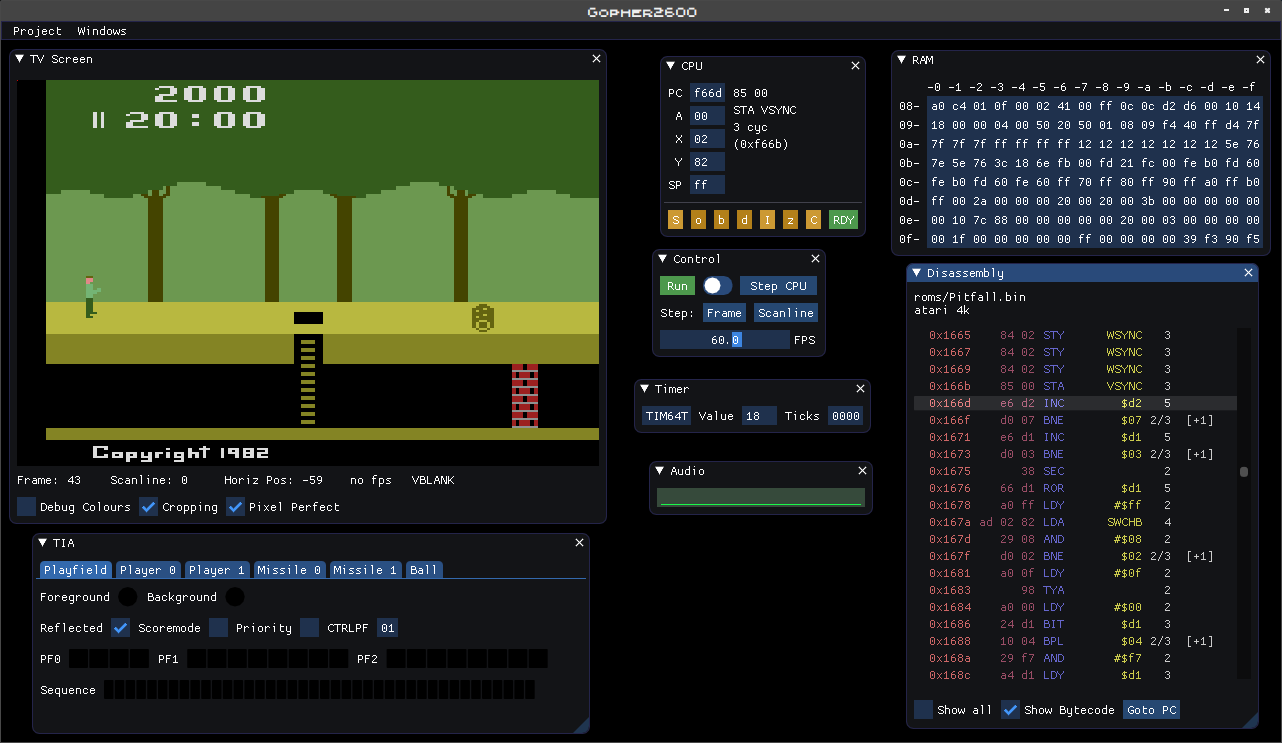
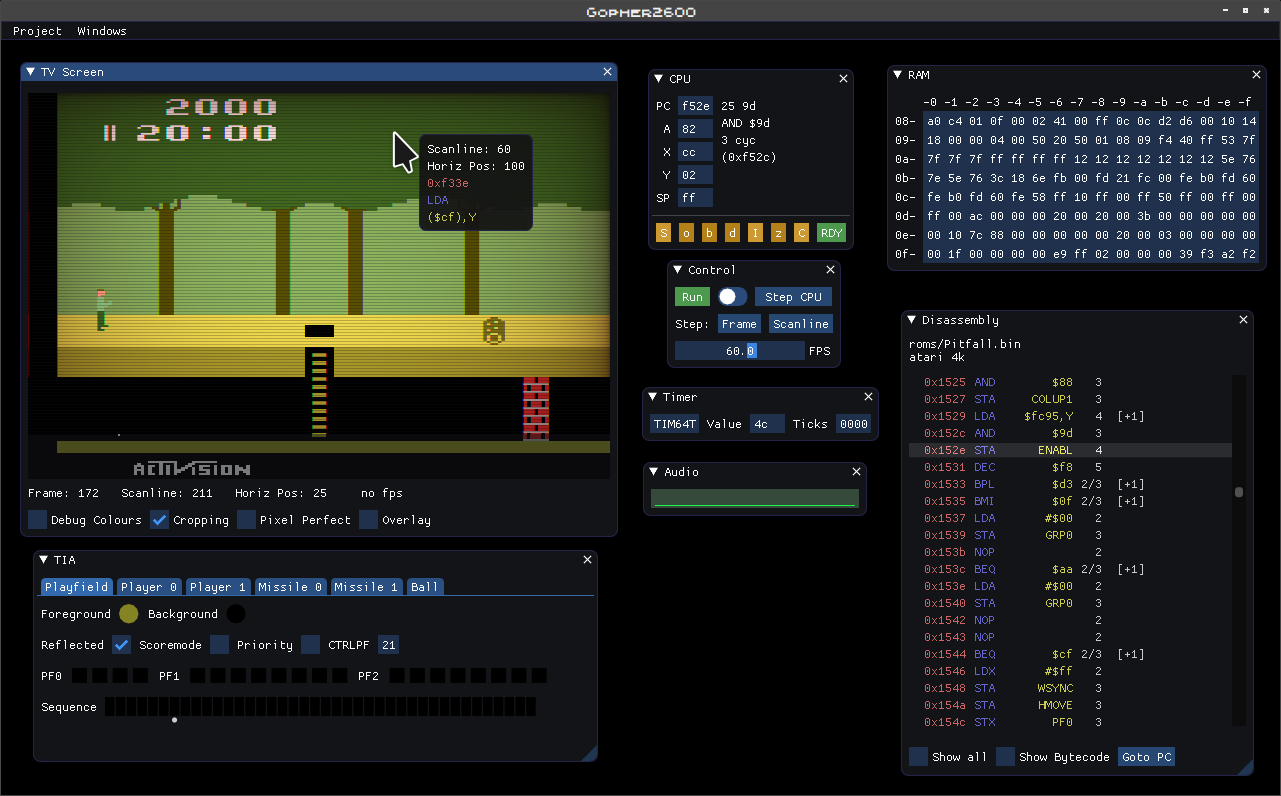
tooltip over screen showing screen "coords" and CPU state
started refactor of reflection package. added Broker interface
- similar in purpose to the Broker interface in the terminal package

diff --git a/gui/sdlimgui/screen.go b/gui/sdlimgui/screen.go
@@ -81,9 +81,12 @@ type screenCrit struct {
 
 	// pixels and altPixels should be constructed exactly the same. the only
 	// difference is the colors
-	pixels    *image.RGBA
-	altPixels *image.RGBA
-	refPixels *image.RGBA
+	pixels        *image.RGBA
+	altPixels     *image.RGBA
+	overlayPixels *image.RGBA
+
+	// 2d array of disasm entries. resized at the same time as overlayPixels resize
+	reflection [][]reflection.ResultWithBank
 
 	// the cropped view of the screen pixels. note that these instances are
 	// created through the SubImage() command and should not be written to
@@ -138,7 +141,13 @@ func (scr *screen) resize(topScanline int, visibleScanlines int) error {
 
 	scr.crit.pixels = image.NewRGBA(image.Rect(0, 0, television.HorizClksScanline, scr.img.tv.GetSpec().ScanlinesTotal))
 	scr.crit.altPixels = image.NewRGBA(image.Rect(0, 0, television.HorizClksScanline, scr.img.tv.GetSpec().ScanlinesTotal))
-	scr.crit.refPixels = image.NewRGBA(image.Rect(0, 0, television.HorizClksScanline, scr.img.tv.GetSpec().ScanlinesTotal))
+	scr.crit.overlayPixels = image.NewRGBA(image.Rect(0, 0, television.HorizClksScanline, scr.img.tv.GetSpec().ScanlinesTotal))
+
+	// allocate disasm info
+	scr.crit.reflection = make([][]reflection.ResultWithBank, television.HorizClksScanline)
+	for x := 0; x < television.HorizClksScanline; x++ {
+		scr.crit.reflection[x] = make([]reflection.ResultWithBank, scr.img.tv.GetSpec().ScanlinesTotal)
+	}
 
 	// create a cropped image from the main
 	r := image.Rectangle{
@@ -151,7 +160,7 @@ func (scr *screen) resize(topScanline int, visibleScanlines int) error {
 	}
 	scr.crit.cropPixels = scr.crit.pixels.SubImage(r).(*image.RGBA)
 	scr.crit.cropAltPixels = scr.crit.altPixels.SubImage(r).(*image.RGBA)
-	scr.crit.cropRefPixels = scr.crit.refPixels.SubImage(r).(*image.RGBA)
+	scr.crit.cropRefPixels = scr.crit.overlayPixels.SubImage(r).(*image.RGBA)
 
 	// clear pixels. SetPixel() alters the value of lastX and lastY. we don't
 	// really want it to do that however, so we note these value and restore
@@ -215,7 +224,7 @@ func (scr *screen) render() {
 	defer scr.crit.section.RUnlock()
 
 	var pixels *image.RGBA
-	var refPixels *image.RGBA
+	var overlayPixels *image.RGBA
 
 	if scr.cropped {
 		if scr.useAltPixels {
@@ -223,14 +232,14 @@ func (scr *screen) render() {
 		} else {
 			pixels = scr.crit.cropPixels
 		}
-		refPixels = scr.crit.cropRefPixels
+		overlayPixels = scr.crit.cropRefPixels
 	} else {
 		if scr.useAltPixels {
 			pixels = scr.crit.altPixels
 		} else {
 			pixels = scr.crit.pixels
 		}
-		refPixels = scr.crit.refPixels
+		overlayPixels = scr.crit.overlayPixels
 	}
 
 	gl.PixelStorei(gl.UNPACK_ROW_LENGTH, int32(pixels.Stride)/4)
@@ -249,7 +258,7 @@ func (scr *screen) render() {
 		gl.TexImage2D(gl.TEXTURE_2D, 0,
 			gl.RGBA, int32(pixels.Bounds().Size().X), int32(pixels.Bounds().Size().Y), 0,
 			gl.RGBA, gl.UNSIGNED_BYTE,
-			gl.Ptr(refPixels.Pix))
+			gl.Ptr(overlayPixels.Pix))
 
 		scr.createTextures = false
 
@@ -267,7 +276,7 @@ func (scr *screen) render() {
 			gl.TexSubImage2D(gl.TEXTURE_2D, 0,
 				0, 0, int32(pixels.Bounds().Size().X), int32(pixels.Bounds().Size().Y),
 				gl.RGBA, gl.UNSIGNED_BYTE,
-				gl.Ptr(refPixels.Pix))
+				gl.Ptr(overlayPixels.Pix))
 		}
 	}
 }
@@ -342,13 +351,29 @@ func (scr *screen) EndRendering() error {
 	return nil
 }
 
-// SetReflectPixel implements reflection.Renderer interface
-func (scr *screen) SetReflectPixel(ref reflection.ReflectPixel) error {
+// NeweflectPixel implements reflection.Renderer interface
+func (scr *screen) NewReflectPixel(result reflection.ResultWithBank) error {
+	scr.crit.section.Lock()
+	defer scr.crit.section.Unlock()
+
+	// clear pixel
+	scr.crit.overlayPixels.SetRGBA(scr.crit.lastX, scr.crit.lastY, color.RGBA{0, 0, 0, 0})
+
+	// store ResultWithBank instance
+	if scr.crit.lastX < len(scr.crit.reflection) && scr.crit.lastY < len(scr.crit.reflection[scr.crit.lastX]) {
+		scr.crit.reflection[scr.crit.lastX][scr.crit.lastY] = result
+	}
+
+	return nil
+}
+
+// UpdateReflectPixel implements reflection.Renderer interface
+func (scr *screen) UpdateReflectPixel(ref reflection.ReflectPixel) error {
 	scr.crit.section.Lock()
 	defer scr.crit.section.Unlock()
 
 	rgb := color.RGBA{uint8(ref.Red), uint8(ref.Green), uint8(ref.Blue), uint8(ref.Alpha)}
-	scr.crit.refPixels.SetRGBA(scr.crit.lastX, scr.crit.lastY, rgb)
+	scr.crit.overlayPixels.SetRGBA(scr.crit.lastX, scr.crit.lastY, rgb)
 
 	return nil
 }

diff --git a/gui/sdlimgui/win_screen.go b/gui/sdlimgui/win_screen.go
@@ -24,6 +24,8 @@ import (
 	"strings"
 
 	"github.com/inkyblackness/imgui-go/v2"
+	"github.com/jetsetilly/gopher2600/disassembly"
+	"github.com/jetsetilly/gopher2600/television"
 )
 
 const winScreenTitle = "TV Screen"
@@ -105,16 +107,72 @@ func (win *winScreen) draw() {
 		imgui.Image(imgui.TextureID(win.scr.overlayTexture), imgui.Vec2{w, h})
 	}
 
-	// is cursor over the screen
 	win.isHovered = imgui.IsItemHovered()
+
+	// if mouse is hovering over the image ...
+	if win.isHovered {
+		win.scr.crit.section.RLock()
+
+		// get mouse position and transform it so it relates to the underlying
+		// image
+		mp := imgui.MousePos().Minus(imagePos)
+		mx := mp.X / win.scr.scaledCroppedWidth()
+		my := mp.Y / win.scr.scaledCroppedHeight()
+
+		imageSz := win.scr.crit.cropPixels.Bounds().Size()
+
+		if win.scr.cropped {
+			mx *= float32(imageSz.X)
+			mx += float32(television.HorizClksHBlank)
+			my *= float32(imageSz.Y)
+			my += float32(win.scr.crit.topScanline)
+		} else {
+			mx *= float32(imageSz.X)
+			my *= float32(imageSz.Y)
+		}
+
+		// get reflection information
+		res := win.scr.crit.reflection[int(mx)][int(my)]
+
+		// present tooltip showing pixel coords and CPU state
+		if !win.isCaptured {
+			fmtRes, _ := win.img.lz.Dsm.FormatResult(res.Bank, res.Res, disassembly.EntryLevelBlessed)
+			if fmtRes.Address != "" {
+				imgui.BeginTooltip()
+				imgui.Text(fmt.Sprintf("Scanline: %d", int(my)))
+				imgui.Text(fmt.Sprintf("Horiz Pos: %d", int(mx)-television.HorizClksHBlank))
+
+				imgui.PushStyleColor(imgui.StyleColorText, win.img.cols.DisasmBreakAddress)
+				if win.img.lz.Cart.NumBanks > 1 {
+					imgui.Text(fmt.Sprintf("%s [bank %d]", fmtRes.Address, res.Bank))
+				} else {
+					imgui.Text(fmtRes.Address)
+				}
+				imgui.PopStyleColor()
+
+				imgui.PushStyleColor(imgui.StyleColorText, win.img.cols.DisasmMnemonic)
+				imgui.Text(fmtRes.Mnemonic)
+				imgui.PopStyleColor()
+
+				if fmtRes.Operand != "" {
+					imgui.PushStyleColor(imgui.StyleColorText, win.img.cols.DisasmOperand)
+					imgui.Text(fmtRes.Operand)
+					imgui.PopStyleColor()
+				}
+
+				imgui.EndTooltip()
+			}
+		}
+
+		win.scr.crit.section.RUnlock()
+	}
 
 	// tv status line
 	imguiText("Frame:")
 	imguiText(fmt.Sprintf("%-4d", win.img.lz.TV.Frame))
 	imgui.SameLineV(0, 15)
 	imguiText("Scanline:")
-	scanline := win.img.lz.TV.Scanline
-	imguiText(fmt.Sprintf("%-4d", scanline))
+	imguiText(fmt.Sprintf("%-4d", win.img.lz.TV.Scanline))
 	imgui.SameLineV(0, 15)
 	imguiText("Horiz Pos:")
 	imguiText(fmt.Sprintf("%-4d", win.img.lz.TV.HP))

diff --git a/reflection/monitor.go b/reflection/monitor.go
@@ -82,13 +82,11 @@ func NewMonitor(vcs *hardware.VCS, renderer Renderer) *Monitor {
 // Check should be called every video cycle to record the current state of the
 // emulation/system
 func (mon *Monitor) Check() error {
-	// send clear pixel signal before anything else. this is okay to send in
-	// addition to any potential signals from the functions called below
-	// because of hos ReflectPixel() works - always drawing at the location of last TV
-	// signal. I acknowledge that it is potentially redundant but the
-	// performance impact is minimal
-	sig := ReflectPixel{Label: "", Red: 0, Green: 0, Blue: 0, Alpha: 0}
-	if err := mon.renderer.SetReflectPixel(sig); err != nil {
+	res := ResultWithBank{
+		Res:  mon.vcs.CPU.LastResult,
+		Bank: mon.vcs.Mem.Cart.GetBank(mon.vcs.CPU.LastResult.Address),
+	}
+	if err := mon.renderer.NewReflectPixel(res); err != nil {
 		return nil
 	}
 
@@ -131,7 +129,7 @@ func (mon *Monitor) checkWSYNC() error {
 	// special handling of WSYNC signal - we want every pixel to be coloured
 	// while the RdyFlag is false, not just when WSYNC is first triggered.
 	sig := ReflectPixel{Label: "WSYNC", Red: 0, Green: 0, Blue: 100, Alpha: 120}
-	return mon.renderer.SetReflectPixel(sig)
+	return mon.renderer.UpdateReflectPixel(sig)
 }
 
 type overlaySignals map[uint16]ReflectPixel
@@ -199,7 +197,7 @@ func (adm *addressMonitor) check(rend Renderer, mem *memory.VCSMemory, delay fut
 	// not have an associated future.Event
 	if adm.lastEvent != nil || signalStart {
 		adm.lastEvent = nil
-		err := rend.SetReflectPixel(adm.signal)
+		err := rend.UpdateReflectPixel(adm.signal)
 		if err != nil {
 			return err
 		}

diff --git a/reflection/reflection.go b/reflection/reflection.go
@@ -19,6 +19,8 @@
 
 package reflection
 
+import "github.com/jetsetilly/gopher2600/hardware/cpu/execution"
+
 // ReflectPixel contains additional debugging information from the last video cycle.
 // it is up to the Renderer to match this up with the last television signal
 type ReflectPixel struct {
@@ -36,13 +38,22 @@ type ReflectPixel struct {
 // Renderer implementations accepts ReflectPixel values and associates it in
 // some way with the moste recent television signal
 type Renderer interface {
-	SetReflectPixel(ReflectPixel) error
+	NewReflectPixel(ResultWithBank) error
+	UpdateReflectPixel(ReflectPixel) error
 }
 
-// StubRenderer is a minimal implementation of reflection.StubRenderer
-type StubRenderer struct{}
+// Broker implementations can identify a reflection.Renderer
+type Broker interface {
+	GetReflectionRenderer() Renderer
+}
 
-// SetReflectPixel implements the relfection.Renderer interface
-func (_ *StubRenderer) SetReflectPixel(_ ReflectPixel) error {
-	return nil
+// ResultWithBank is an inexpensive way of associating an execution.Result with
+// its cartridge bank. For reasons given in the execution package, we don't
+// store bank information in execution.Result itself. The disassembly package
+// has a way of wrapping the two fields together, but it's an expensive
+// operation to perform every video cycle. The ResultWithBank type can be
+// though of as a half-way point between the two extremes.
+type ResultWithBank struct {
+	Res  execution.Result
+	Bank int
 }

diff --git a/gui/sdlimgui/sdlimgui.go b/gui/sdlimgui/sdlimgui.go
@@ -232,23 +232,22 @@ func (img *SdlImgui) Destroy(output io.Writer) {
 	img.context.Destroy()
 }
 
-// GetTerminal implements terminal.Broker interface
-func (img *SdlImgui) GetTerminal() terminal.Terminal {
-	return img.term
-}
-
 func (img *SdlImgui) pause(set bool) {
 	img.paused = set
 }
 
 func (img *SdlImgui) draw() {
-	if img.lz.Dbg == nil {
-	} else {
+	if img.lz.Dbg != nil {
 		img.wm.draw()
 	}
 }
 
-// SetReflectPixel implements reflection.Renderer interface
-func (img *SdlImgui) SetReflectPixel(ref reflection.ReflectPixel) error {
-	return img.screen.SetReflectPixel(ref)
+// GetTerminal implements terminal.Broker interface
+func (img *SdlImgui) GetTerminal() terminal.Terminal {
+	return img.term
+}
+
+// GetReflectionRendere implements reflection.Broker interface
+func (img *SdlImgui) GetReflectionRenderer() reflection.Renderer {
+	return img.screen
 }

diff --git a/gui/sdldebug/sdldebug.go b/gui/sdldebug/sdldebug.go
@@ -440,8 +440,18 @@ func (scr *SdlDebug) SetAltPixel(x, y int, red, green, blue byte, vblank bool) e
 	return nil
 }
 
-// SetReflectPixel implements reflection.Renderer interface
-func (scr *SdlDebug) SetReflectPixel(ref reflection.ReflectPixel) error {
+// GetReflectionRenderer implements the relfection.Broker interface
+func (scr *SdlDebug) GetReflectionRenderer() reflection.Renderer {
+	return scr
+}
+
+// NewReflectPixel implements the relfection.Renderer interface
+func (_ *SdlDebug) NewReflectPixel(_ reflection.ResultWithBank) error {
+	return nil
+}
+
+// UpdateReflectPixel implements reflection.Renderer interface
+func (scr *SdlDebug) UpdateReflectPixel(ref reflection.ReflectPixel) error {
 	i := (scr.lastY*int(television.HorizClksScanline) + scr.lastX) * pixelDepth
 	if i <= scr.overlay.length()-pixelDepth {
 		scr.overlay.pixels[i] = ref.Red

diff --git a/debugger/debugger.go b/debugger/debugger.go
@@ -171,13 +171,9 @@ func NewDebugger(tv television.Television, scr gui.GUI, term terminal.Terminal) 
 		return err
 	})
 
-	// set up reflection monitor. if screen implements the reflection.Renderer
-	// interface then use that. otherwise set up the stub renderer
-	if ref, ok := dbg.scr.(reflection.Renderer); ok {
-		dbg.reflect = reflection.NewMonitor(dbg.vcs, ref)
-	} else {
-		ref := &reflection.StubRenderer{}
-		dbg.reflect = reflection.NewMonitor(dbg.vcs, ref)
+	// setup reflection monitor
+	if b, ok := scr.(reflection.Broker); ok {
+		dbg.reflect = reflection.NewMonitor(dbg.vcs, b.GetReflectionRenderer())
 	}
 
 	// set up breakpoints/traps

diff --git a/gui/sdldebug/overlay.go b/gui/sdldebug/overlay.go
@@ -25,8 +25,7 @@ import (
 	"github.com/veandco/go-sdl2/sdl"
 )
 
-// overlay type stored and renders addtional information for the current tv
-// frame. For example, ReflectPixels set by SetReflectPixel()
+// overlay type stored and renders addtional information for the current tv frame
 type overlay struct {
 	renderer *sdl.Renderer
 	pixels   []byte

diff --git a/debugger/inputloop.go b/debugger/inputloop.go
@@ -35,6 +35,9 @@ func (dbg *Debugger) inputLoop(inputter terminal.Input, videoCycle bool) error {
 	// vcsStep is to be called every video cycle when the quantum mode
 	// is set to CPU
 	vcsStep := func() error {
+		if dbg.reflect == nil {
+			return nil
+		}
 		return dbg.reflect.Check()
 	}
 
